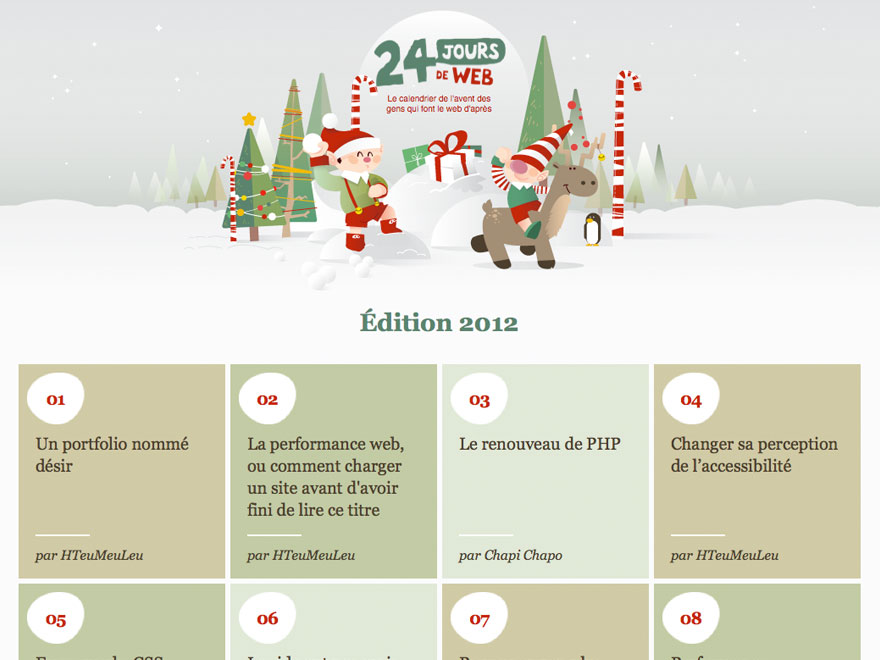
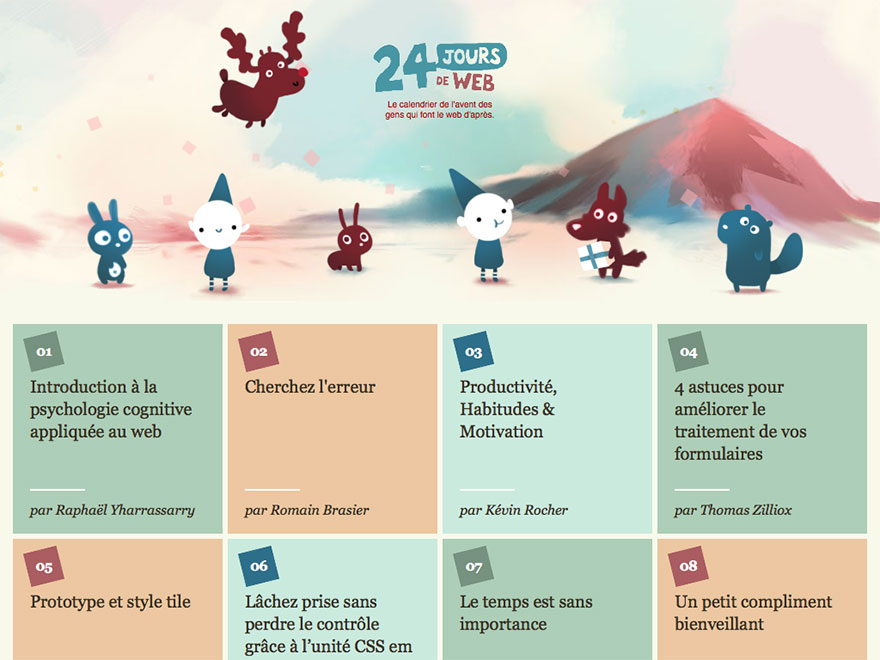
Thème 2015

diff --git a/style.css b/style.css
@@ -1,8 +1,8 @@
 /*
 Theme Name:24 jours de web
 Theme URI:http://www.24joursdeweb.fr
-Description:Thème de 24 jours de web, édition 2014
-Version:3.0.0
+Description:Thème de 24 jours de web, édition 2015
+Version:4.0.0
 Author:Rémi
 Author URI:http://www.hteumeuleu.fr
 */

diff --git a/functions.php b/functions.php
@@ -1,7 +1,7 @@
 <?php
 
 global $jdw_current_edition;
-$jdw_current_edition = "2014";
+$jdw_current_edition = "2015";
 
 /**
  * Personnalisation de WordPress
